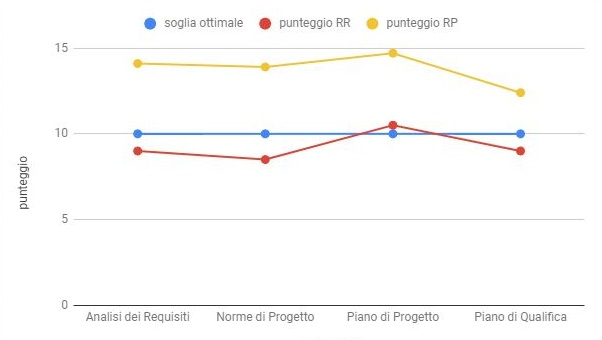
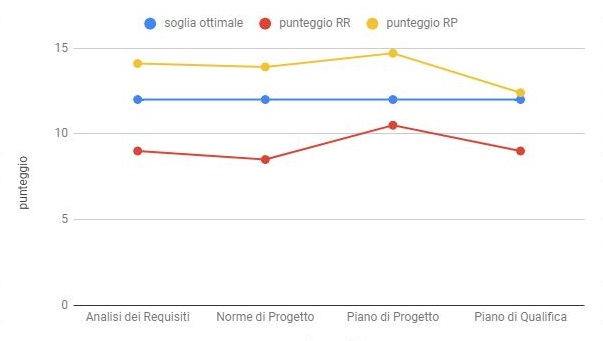
Consegna RP

diff --git a/RP/Interni/Norme di Progetto/processi_organizzativi.tex b/RP/Interni/Norme di Progetto/processi_organizzativi.tex
@@ -69,7 +69,7 @@
                 Viene posta particolare attenzione nella modalità di risposta e di inoltro delle email. In questi casi sono da utilizzare i tasti "Rispondi a tutti" e "Inoltra a" che formatteranno in automatico il corpo del messaggio includendo le clausole "Re:" e "I:".
                 \subsubsection{Riunioni}
                     In questa sottosezione vengono presentate le modalità di riunione, sia interne che esterne.
-                    Allo scopo di far rispettare l'ordine del giorno, redigere il \textit{Verbale di riunione} e prendere nota degli argomenti trattati e delle decisioni prese, all'interno di ogni riunione dovrà essere nominato a turno tra i membri del gruppo Dream Corp un Segretario.
+                    Allo scopo di far rispettare l'ordine del giorno, redigere il \textit{Verbale di riunione} e prendere nota degli argomenti trattati e delle decisioni prese, all'interno di ogni riunione dovrà essere nominato a turno tra i membri del gruppo Dream Corp. un Segretario.
                     \paragraph{Verbali di riunione}
                        Nello svolgimento delle riunioni è compito del Segretario redigere il documento \textit{Verbale di riunione} secondo il seguente schema:
                         \begin{itemize}
@@ -196,7 +196,7 @@
                     I ticket rappresentano l’associazione di una issue ad un membro del gruppo. L’assegnazione dei ticket ad uno specifico componente del gruppo può avvenire secondo due modalità:
                     \begin{itemize}
                         \item \textbf{Pro-attivamente:} l’assegnatario dell' issue è già noto al momento della creazione dello stesso. In questo caso il ticket viene assegnato direttamente allo specifico componente del gruppo da parte del Responsabile di progetto;
-                        \item \textbf{Retroattivamente:} nel caso di task a bassa priorità oppure di grandi quantità di lavoro da parte di tutti i componenti del gruppo, può non essere possibile assegnare direttamente una issue ad un componente del gruppo. Queste issues possono essere assegnate autonomamente qualora il componente finisse in anticipo i ticket a lui già assegnati.\newline
+                        \item \textbf{Retroattivamente:} nel caso di issue a bassa priorità oppure di grandi quantità di lavoro da parte di tutti i componenti del gruppo, può non essere possibile assegnare direttamente una issue ad un componente del gruppo. Queste issues possono essere assegnate autonomamente qualora il componente finisse in anticipo i ticket a lui già assegnati.\newline
                     \end{itemize}\clearpage
                     Il ciclo di vita di un ticket è illustrato nella seguente immagine:\newline
                     \begin{figure}[!htbp]
@@ -219,7 +219,7 @@
                     	     \begin{figure}[!htbp]
                     	    	\centering
                     	    	\includegraphics[scale=0.5]{task.png}
-                    	    	\caption{Ciclo di vita del task}
+                    	    	\caption{Ciclo di vita della issue}
                     	    \end{figure}
                     	    \clearpage
                 \subsubsection{Creazione dei diagrammi di Gantt}
@@ -228,7 +228,7 @@
                     ai nostri bisogni.
                 \subsection{Formazione}            
                     \subsubsection{Formazione del personale}
-                        I membri del gruppo Dream Corp sono tenuti ad apprendere le tecnologie utilizzate per ogni ambito del progetto in modo autonomo usando le seguenti guide:
+                        I membri del gruppo Dream Corp. sono tenuti ad apprendere le tecnologie utilizzate per ogni ambito del progetto in modo autonomo usando le seguenti guide:
                     \begin{itemize}
                         \item \textbf{Grafana}: \url{http://docs.grafana.org/};
                         \item \textbf{JavaScript}: \url{https://www.w3schools.com/js/};

diff --git a/RP/Interni/Norme di Progetto/appendice.tex b/RP/Interni/Norme di Progetto/appendice.tex
@@ -171,7 +171,7 @@ Indica la percentuale totale delle build Travis superate per le due repository G
 		PPT=(\frac{PT}{ET}) \times 100
 	\]	
 	Dove $PT$ indica il numero di test passati e $ET$ il numero di test eseguiti.
-    \item \textbf{Percentuale di test case falliti:} complementare della misu-razione precedente.  La sua formula di misurazione `e la seguente:\newline
+    \item \textbf{Percentuale di test case falliti:} complementare della misurazione precedente.  La sua formula di misurazione `e la seguente:\newline
     \[
 		PFT=(\frac{FT}{ET}) \times 100
 	\]	
@@ -264,8 +264,7 @@ indice di leggibilità più semplice.
 		MTBF=\frac{\sum(inizio ~del ~Downtime - ~inizio ~dell'Uptime)}{numero ~di ~failures}
 		\]\newline
 		$MTBF$ è un indice molto utile per quantificare l'affidabilità di un sistema.
-		\subsubsection{Blocco operazioni non corrette} Indica la percentuale di funzionalità in grado di gestire correttamente i fault che
-potrebbero verificarsi. La sua formula di misurazione è la seguente:
+		\subsubsection{Blocco operazioni non corrette} Indica la percentuale di funzionalità in grado di gestire correttamente i fault che potrebbero verificarsi. La sua formula di misurazione è la seguente:
 \newline
 		\[
 		BNC=(\frac{N_{FE}}{N_{ON}}) \times 100
@@ -273,6 +272,15 @@ potrebbero verificarsi. La sua formula di misurazione è la seguente:
 		Dove $N_{FE}$ è il numero di failure evitati durante i test effettuati e $N_{ON}$ è il numero
 di test-case eseguiti che prevedono l’esecuzione di operazioni non corrette, causa
 		di possibili failure.
+		\subsubsection{Comprensibilità delle funzioni offerte}
+		Indica la percentuale di operazioni comprese in modo immediato dall'utente, senza la consultazione del manuale. La sua formula di misurazione è la seguente:
+		\newline
+		\[
+		CFC=(\frac{N_{FC}}{N_{FO}}) \times 100
+		\]	
+		Dove $N_{FC}$ è il numero di funzionalità comprese in modo immediato dall'utente durante l’attività di testing del prodotto e $N_{FO}$ è il numero di funzionalità offerte dal sistema.
+		\subsubsection{Facilità di apprendimento delle funzionalità}
+		Indica il tempo medio impiegato dall'utente nell'imparare ad usare correttamente una data funzionalità. Si misura tramite un indicatore numerico che indica i minuti impiegati da un utente per apprendere il funzionamento di una certa funzionalità.
 		\subsubsection{Test conclusi in failure} Indica la percentuale di testing che si sono concluse in failure. La sua formula di
 misurazione è la seguente:
  \newline

diff --git a/RP/Esterni/Piano di Qualifica/QualitaDiSoftware.tex b/RP/Esterni/Piano di Qualifica/QualitaDiSoftware.tex
@@ -34,8 +34,8 @@ I documenti prodotti dovranno essere standardizzati, leggibili, sintatticamente 
 			\textbf{Nome} & \textbf{Accettazione} & \textbf{Ottimalità} \\ \hline
 			Gulpease index    &   50-100   &    65-100       \\ \hline
 			Errori sintattici     &  0    &   0      \\ \hline
-			Gunning Fog index    &     \textless= 13      &   \textless= 10   \\ \hline
-			SMOG                  &              \textless= 13                                &                         \textless= 10                   \\ \hline
+			Gunning Fog index    &     $\leq$ 15      &   $\leq$ 12   \\ \hline
+			SMOG                  &               $\leq$ 13                                &                          $\leq$ 10                   \\ \hline
 		\end{tabular}
 	\caption{Metriche utilizzate Qualità dei documenti}
 \end{table}
@@ -105,9 +105,22 @@ Rappresenta la capacità del prodotto di essere facilmente comprensibile ed attr
 \subparagraph{Metriche utilizzate:}
 \begin{itemize}
     \item \textbf{Comprensibilità delle funzioni offerte};
-    \item \textbf{Facilità di apprendimento delle funzionalità};
+    \item \textbf{Facilità di apprendimento delle funzionalità}.
 \end{itemize}
-
+\begin{table}[!htpb]
+	\centering
+	\renewcommand{\arraystretch}{2} 
+	\rowcolors{2}{gray!25}{white}
+		\begin{tabular}{|l|l|l|}
+			\rowcolor{orange!50}
+			\hline
+			\textbf{Nome} & \textbf{Accettazione} & \textbf{Ottimalità} \\ \hline
+			Comprensibilità delle funzioni offerte        &           $<$ 80\%            &      90\%         \\
+			\hline
+			Facilità di apprendimento delle funzionalità        &           $<$20 min            &      10 min         \\   \hline                       
+		\end{tabular}
+	\caption{Metriche utilizzate Usabilità}
+\end{table}
 \myparagraph{I1: Efficienza}
 Rappresenta la capacità di eseguire le proprie funzionalità con un buon rapporto tra tempo d'esecuzione e utilizzo delle risorse.\\\\
 \textbf{Obiettivi:}
@@ -120,6 +133,7 @@ Rappresenta la capacità di eseguire le proprie funzionalità con un buon rappor
 \begin{itemize}
 	\item \textbf{Tempo di risposta.}
 \end{itemize}
+
 \begin{table}[!htpb]
 	\centering
 	\renewcommand{\arraystretch}{2} 
@@ -132,7 +146,7 @@ Rappresenta la capacità di eseguire le proprie funzionalità con un buon rappor
 		\end{tabular}
 	\caption{Metriche utilizzate Efficienza}
 \end{table}
-
+\newpage
 \myparagraph{I2: Manutenibilità}
 Riguarda la facilità di apportare modifiche al sistema realizzato.\\\\
 \textbf{Obiettivi:}

diff --git a/RP/Interni/Norme di Progetto/processi_primari.tex b/RP/Interni/Norme di Progetto/processi_primari.tex
@@ -120,7 +120,7 @@
 	        \item \textbf{Sicurezza} rispetto ad intrusioni e malfunzionamenti;
 	        \item \textbf{Incapsulazione} le componenti dovranno essere progettate in modo che le informazioni interne siano nascoste;
 	        \item \textbf{Coesione} in modo che le parti che hanno gli stessi obiettivi stanno insieme;
-	        \item \textbf{Basso accoppiamento} parti distinte devono essere poco dipendenti l’una dalle altre, in modo da poter essere facilmente manutenibili.
+	        \item \textbf{Basso accoppiamento} parti distinte devono essere poco dipendenti l’una dalle altre, in modo da poter essere facilmente mantenibili.
 	    \end{itemize}
 	    
 	    \paragraph{Obiettivi della progettazione}~\newline ~\newline
@@ -302,7 +302,7 @@ In questo paragrafo vengono descritte le principali norme seguite per la codific
 	~\newline
 	\textbf{Inizializzazione:} Le variabili vanno inizializzate il prima possibile, nel migliore dei casi subito dopo la loro dichiarazione. \newline
 	~\newline
-	\textbf{Lunghezza metodi e codice:} È da evitare una lunghezza eccessiva sia nei metodi che nelle righe di codice. Nel primo caso una giusta suddivisione rende più manutenibili i vari metodi e più chiaro il loro scopo, nel secondo rende il codice più scorrevole. \newline
+	\textbf{Lunghezza metodi e codice:} È da evitare una lunghezza eccessiva sia nei metodi che nelle righe di codice. Nel primo caso una giusta suddivisione rende più mantenibili i vari metodi e più chiaro il loro scopo, nel secondo rende il codice più scorrevole. \newline
 	
 	\paragraph{Angular} ~\newline ~\newline
 	In questo paragrafo vengono descritte le norme tratte dalla \textbf{Angular-Style Guide} \footnote{\url{https://angular.io/guide/styleguide}}, la cui applicazione viene favorita da plugin opportunamente configurati in WebStorm\pedice.

diff --git a/RP/Esterni/Piano di Qualifica/Riassunto.tex b/RP/Esterni/Piano di Qualifica/Riassunto.tex
@@ -86,21 +86,27 @@
 		\hline
 		\textbf{Nome} & \textbf{Accettazione} & \textbf{Ottimalità} \\ 
 		\hline
-		\multicolumn{3}{|c|}{E1: Correttezza}\\
+	    \multicolumn{3}{|c|}{Qualità dei documenti} \\
 		\hline
 		Gulpease index & 50-100 & 65-100 \\ \hline
 		Errori sintattici & 0 & 0 \\ \hline
-		Gunning Fog index & \textless= 13 & \textless= 10 \\ \hline
-		SMOG & \textless= 13 & \textless= 10 \\ \hline
-	    \multicolumn{3}{|c|}{E2: Affidabilità} \\
+		Gunning Fog index & $\leq$ 15 & $\leq$ 12 \\ \hline
+		SMOG & $\leq$ 13 & $\leq$ 10  \\ 
+		\hline
+		\multicolumn{3}{|c|}{E1: Correttezza}\\
 		\hline
 		Requisiti fondamentali soddisfatti & 95\% & 100\% \\ \hline
 		Requisiti secondari soddisfatti & 0\% & 80\% \\ \hline
-	    \multicolumn{3}{|c|}{E3: Usabilità} \\
+	    \multicolumn{3}{|c|}{E2: Affidabilità} \\
 		\hline
-		MTBF & $\leq$ 2 ogni 5 build & $\leq$1 ogni 5 build \\ \hline
+		MTBF & \ $\leq$ 2 ogni 5 build & \ $\leq$1  ogni 5 build \\ \hline
 		Blocco operazioni non corrette & 0-20\% & 0\% \\ \hline
 		Test conclusi in failure & 0-10\% & 0\% \\ \hline
+	    \multicolumn{3}{|c|}{E3: Usabilità} \\
+		\hline
+			Comprensibilità delle funzioni offerte        &           80\%            &      90\%         \\
+			\hline
+			Facilità di apprendimento delle funzionalità & $\leq$20 min & $\leq$10  min \\   \hline  
 	\end{tabular}
 	\caption{Metriche Qualità di Prodotto P1}
 \end{table}	        

diff --git a/RP/Esterni/Piano di Qualifica/RRP.tex b/RP/Esterni/Piano di Qualifica/RRP.tex
@@ -60,7 +60,8 @@ Per gli esiti viene usata la stessa codifica del paragrafo precedente.
 In questa fase ci siamo concentrati sulla sistemazione dei documenti e sullo studio delle tecnologie che ci serviranno per la realizzazione del progetto facendo piccoli test di codice a se stante senza implementare i test.\\
 Molti indici sul codice non sono nella zona di accettazione proprio a causa della mancanza dei test.\\
 Le altre sono metriche prevalentemente sintattiche e pertanto sono da considerare con la dovuta cautela. \\
-In particolari circostanze la valutazione automatica della leggibilità, se non tiene conto in alcun modo dei significati delle parole, può dare risultati inattendibili. \newpage
+In particolari circostanze la valutazione automatica della leggibilità, se non tiene conto in alcun modo dei significati delle parole, può dare risultati inattendibili. 
+%\newpage
 \paragraph{Gunning Fog index}
 \hspace{15cm}
 \begin{figure}[!htbp]

diff --git a/RP/Esterni/Piano di Progetto/ana_ris.tex b/RP/Esterni/Piano di Progetto/ana_ris.tex
@@ -1,5 +1,6 @@
 \section{Analisi dei rischi}
-\subsection{Analisi dei rischi: Progettazione Architetturale}
+\subsection{Revisione di Progettazione (RP)}
+\subsubsection{Analisi dei rischi: Progettazione Architetturale}
 La tabella dei rischi è stata aggiornata durante lo svolgimento della fase della progettazione architetturale aggiungendo nuovi rischi che sono stati riscontrati e che non erano stati calcolati precedentemente.
 \begin{table}[!htpb]
 		\centering
@@ -22,7 +23,7 @@ La tabella dei rischi è stata aggiornata durante lo svolgimento della fase dell
 		\caption{Analisi dei Rischi}
 	\end{table}
 \newpage
-\subsection{Rischi non calcolati: Progettazione Architetturale}
+\subsubsection{Rischi non calcolati: Progettazione Architetturale}
 La seguente tabella riporta i rischi non calcolati che sono avvenuti in questa fase
 \begin{table}[!htpb]
 		\centering

diff --git a/RP/Esterni/Piano di Progetto/consuntivo_progettazione.tex b/RP/Esterni/Piano di Progetto/consuntivo_progettazione.tex
@@ -87,11 +87,11 @@ Il preventivo a finire viene presentato come tabella suddivisa in periodi. Per i
                 \hline
                 Progettazione architetturale & 3416 & 4181\\
                 \hline
-                Progettazione di dettaglio e codifica & 4518\verde{-696} & -\\
+                Progettazione di dettaglio e codifica & 4518 & -\\
                 \hline
                 Validazione e collaudo & 2565 & -\\
                 \hline
-                \textbf{Totale} & 13264 \euro & 13338 \euro\\
+                \textbf{Totale} & 13264 \euro & 14034 \euro\\
                 \hline
         \end{tabular}
         \caption{Preventivo a finire} %descrizone a fine tabella

diff --git a/RP/Esterni/Piano di Progetto/versionamento.tex b/RP/Esterni/Piano di Progetto/versionamento.tex
@@ -12,9 +12,11 @@
 		\hline
 		1.3.0 & 06/03/2019 & Verifica documento & \pie & Verificatore \\
 		\hline
-		1.2.0 & 05/03/2019 & Aggiunta analisi dei rischi RP & \daL & Responsabile \\
+		1.2.1 & 06/03/2019 & Scrittura paragrafo §6.2.3, §6.2.4, §6.2.5 e §6.2.6 & \daL & Responsabile \\
 		\hline
-		1.1.0 & 04/03/2019 & Modifiche al consuntivo per RP & \daL & Responsabile \\
+		1.2.0 & 05/03/2019 & Scrittura appendice §A.1 & \daL & Responsabile \\
+		\hline
+		1.1.0 & 04/03/2019 & Scrittura paragrafo §6.2, §6.2.1 e §6.2.2 & \daL & Responsabile \\
 		\hline
 		1.0.1 & 04/02/2019 & Sistemazione errori RR & \mic & Responsabile \\
 		\hline

diff --git a/RP/Esterni/Piano di Qualifica/PianoDiQualifica.tex b/RP/Esterni/Piano di Qualifica/PianoDiQualifica.tex
@@ -1,6 +1,7 @@
 \documentclass[12pt]{article}
 \setcounter{tocdepth}{4}
 \setcounter{secnumdepth}{4}
+\usepackage{amsmath,amsfonts}
 \newcommand{\documento}{Piano Di Qualifica}
 \input{../../stile/stile.tex}
 \newcommand{\red}{\pie}
